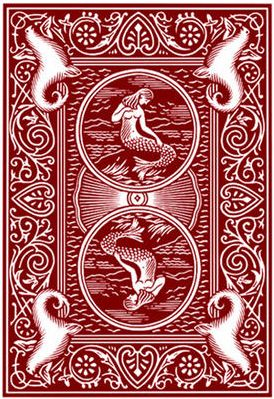
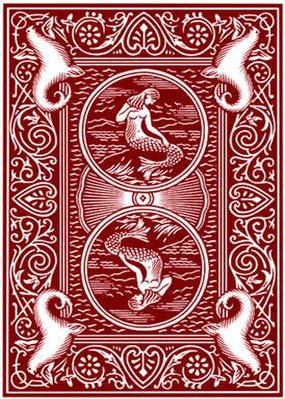
added css style consistent with card ratio size

diff --git a/css/style.css b/css/style.css
@@ -322,7 +322,7 @@ p.bold {
     cursor: default;
 }
 
-.image-container { 
+.image-container {
     display: flex;
     justify-content: space-between;
     align-items: center;
@@ -330,19 +330,33 @@ p.bold {
     margin: 0 auto;
 }
 
-.stimuli-left {
-    width: 300px;
-    height: 300px;
-    margin-bottom: 10px;
-    margin-right: 10px; /* Adjust the right margin to your desired value */
-}
+.stimuli-left,
 .stimuli-middle,
 .stimuli-right {
-    width: 300px;
-    height: 300px;
+    /* Updated width and height based on calculation */
+    width: calc(
+        (100% - 20px) / 3
+    ); /* Adjusted for 3 elements with 10px margins between them */
+    height: calc(((100% - 20px) / 3) * 1.4); /* Maintains 1:1.4 aspect ratio */
     margin-bottom: 10px;
-    margin-left: 10px; /* Adjust the left margin to your desired value */
-    margin-right: 10px; /* Adjust the right margin to your desired value */
+    display: flex;
+    justify-content: center;
+    align-items: center;
+    overflow: hidden;
+}
+
+/* Ensures consistent spacing between elements */
+.stimuli-middle,
+.stimuli-right {
+    margin-left: 10px;
+}
+
+.stimuli-left img,
+.stimuli-middle img,
+.stimuli-right img {
+    max-width: 100%;
+    max-height: 100%;
+    object-fit: cover;
 }
 
 .outcome-container {
@@ -357,16 +371,11 @@ p.bold {
     width: 200px;
     height: 200px;
     margin-bottom: 10px;
-    margin-right: 10px; /* Adjust the right margin to your desired value */
 }
+
 .outcome-right {
     width: 200px;
     height: 200px;
     margin-bottom: 10px;
-    margin-left: 10px; /* Adjust the left margin to your desired value */
-    margin-right: 10px; /* Adjust the right margin to your desired value */
+    margin-left: 10px; /* Ensures spacing between left and right elements */
 }
-
-
-
-
